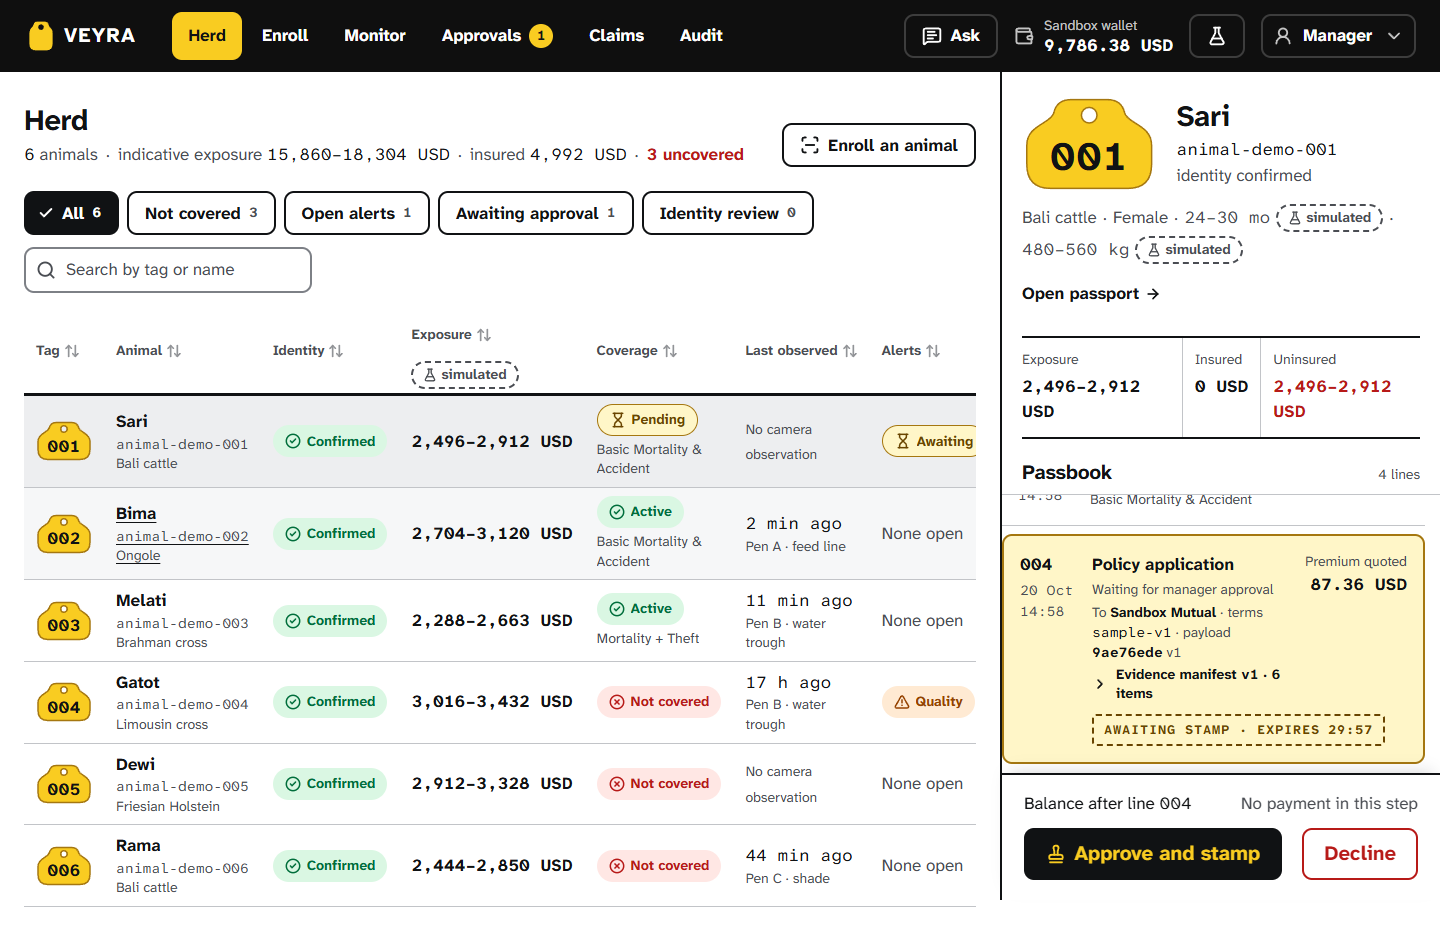
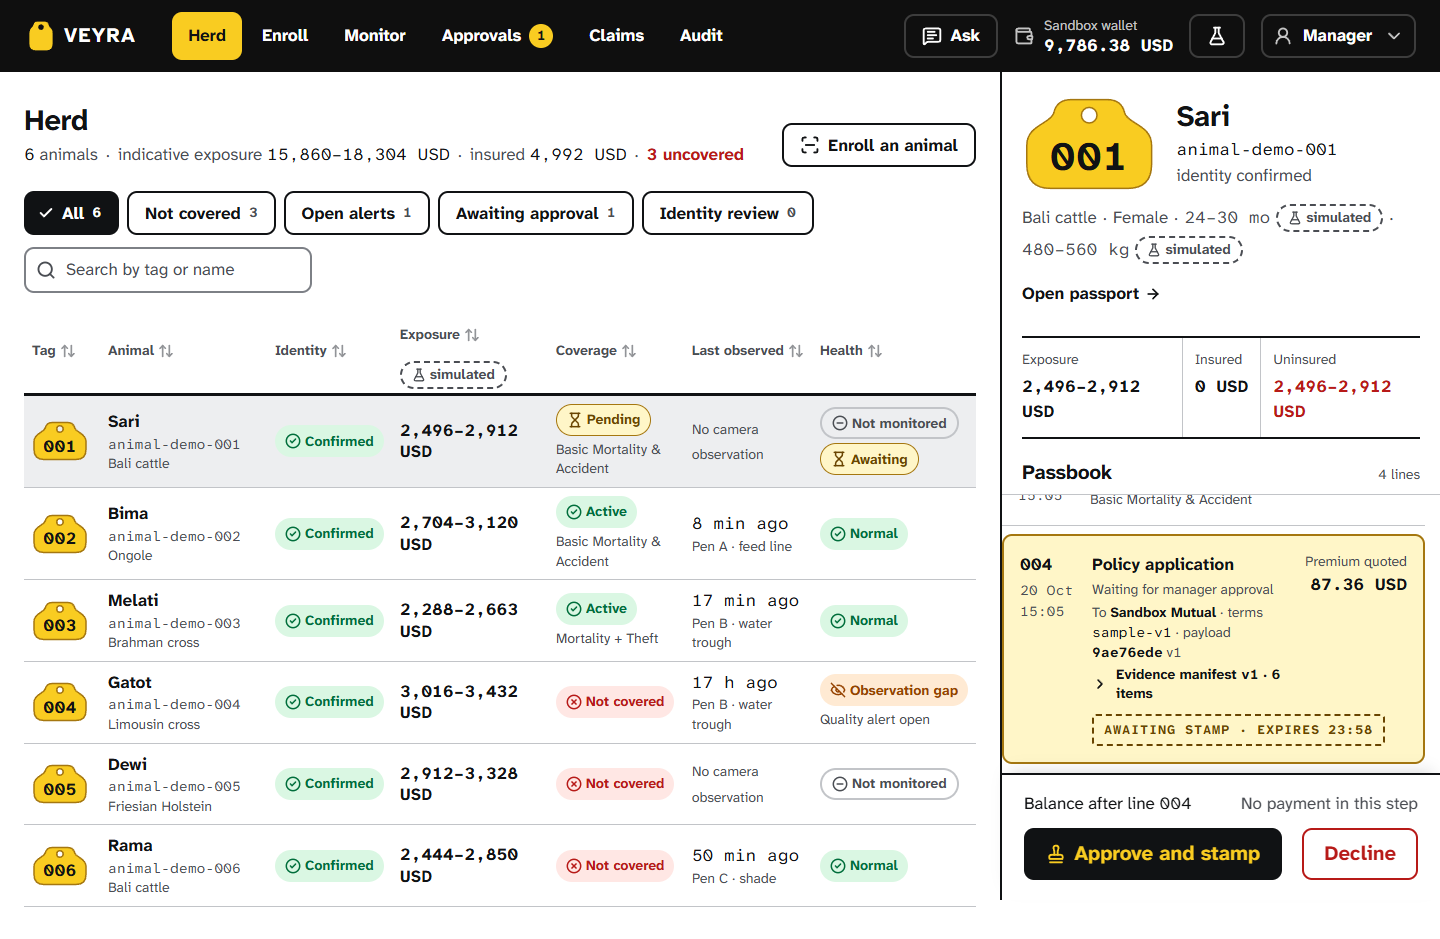
fix(web): fit the herd table beside the passbook at tablet width

diff --git a/apps/web/src/features/herd/HerdPage.tsx b/apps/web/src/features/herd/HerdPage.tsx
@@ -67,6 +67,29 @@ function shortAlertLabel(kind: string): string {
   return "Alert";
 }
 
+function awaitingLabel(count: number): string {
+  return count === 1 ? "Awaiting" : `${count} awaiting`;
+}
+
+/**
+ * Beside the passbook on a tablet (lg up to xl) a cell keeps to its first line so the table fits
+ * at 64px rows: the rest is visually hidden but still read, and it rides in the row's tooltip.
+ */
+const TABLET_HIDDEN = "lg:max-xl:sr-only";
+
+/** The row's tooltip: what the tablet layout moves out of the cells, so a hover still finds it. */
+export function rowTitle(row: HerdItem): string {
+  const parts = [`${row.name}, ${row.breed} (${row.id})`];
+  const product = row.coverage.product_id ? productName(row.coverage.product_id) : null;
+  if (product) parts.push(`Cover: ${product}`);
+  parts.push(`Health: ${row.health.reason}`);
+  if (row.alerts.open_count > 0) {
+    parts.push(`${row.alerts.kinds.length > 0 ? row.alerts.kinds.map(shortAlertLabel).join(", ") : "Alert"} alert open`);
+  }
+  if (row.awaiting_approval_count > 0) parts.push(`${awaitingLabel(row.awaiting_approval_count)} approval`);
+  return parts.join(" · ");
+}
+
 /** Sorts the most urgent health state last, so a descending sort puts it on top. */
 const HEALTH_ORDER: readonly HerdItem["health"]["status"][] = [
   "not_monitored",
@@ -97,7 +120,8 @@ const COLUMNS: readonly Column<HerdItem>[] = [
         <span className="flex flex-col text-sm font-regular text-muted">
           {/* Below xl the tag's printed number carries the ID, so the row keeps to 64px. */}
           <Mono className="hidden whitespace-nowrap xl:inline">{row.id}</Mono>
-          <span>{row.breed}</span>
+          {/* Beside the passbook the breed steps out of sight (row tooltip, passbook, passport) but is still read. */}
+          <span className={TABLET_HIDDEN}>{row.breed}</span>
         </span>
       </span>
     ),
@@ -125,7 +149,7 @@ const COLUMNS: readonly Column<HerdItem>[] = [
       <span className="flex flex-col items-start gap-1">
         <StatusPill {...coveragePill(row.coverage.status)} />
         {row.coverage.product_id && (
-          <span className="max-w-28 truncate text-sm text-muted max-md:max-w-none max-md:whitespace-normal xl:max-w-none xl:whitespace-normal" title={productName(row.coverage.product_id) ?? undefined}>
+          <span className={`text-sm text-muted ${TABLET_HIDDEN}`}>
             {productName(row.coverage.product_id)}
           </span>
         )}
@@ -150,18 +174,22 @@ const COLUMNS: readonly Column<HerdItem>[] = [
   {
     id: "health",
     header: "Health",
-    width: "172px",
+    width: "152px",
     sortValue: (row) => HEALTH_ORDER.indexOf(row.health.status) * 100 + row.awaiting_approval_count,
     cell: (row) => (
-      <span className="flex flex-col items-start gap-1" title={row.health.reason}>
+      <span className="flex flex-col items-start gap-1">
         <StatusPill {...healthPill(row.health.status)} />
+        {/* Beside the passbook the cell keeps to its pill; the alert and the waiting line stay read and
+            show in the row tooltip, and the passbook beside the table prints the waiting line itself. */}
         {row.alerts.open_count > 0 && (
-          <span className="text-sm text-muted">
+          <span className={`text-sm text-muted ${TABLET_HIDDEN}`}>
             {row.alerts.kinds.length > 0 ? row.alerts.kinds.map(shortAlertLabel).join(", ") : "Alert"} alert open
           </span>
         )}
         {row.awaiting_approval_count > 0 && (
-          <StatusPill tone="awaiting" label={row.awaiting_approval_count === 1 ? "Awaiting" : `${row.awaiting_approval_count} awaiting`} />
+          <span className={TABLET_HIDDEN}>
+            <StatusPill tone="awaiting" label={awaitingLabel(row.awaiting_approval_count)} />
+          </span>
         )}
       </span>
     ),
@@ -191,7 +219,7 @@ function ExposureCell({ row, columnSource }: { row: HerdItem; columnSource: Sour
         low={row.valuation.value_low_minor}
         high={row.valuation.value_high_minor}
         currency={row.valuation.currency}
-        className="font-bold whitespace-nowrap"
+        className="font-bold leading-tight"
       />
       {/* A row whose source differs from the column's carries its own chip; stacked rows (no header) always do. */}
       {source && <Provenance source={source} className={differs ? undefined : "dt-stacked-only"} />}
@@ -358,6 +386,7 @@ export function HerdPage() {
           rows={rows}
           rowKey={(row) => row.id}
           rowHref={(row) => hrefFor(row.id)}
+          rowTitle={rowTitle}
           selectedKey={wide ? panelAnimal : selectedParam}
           loading={herd.isPending}
           loadingRows={6}

diff --git a/apps/web/src/styles/components.css b/apps/web/src/styles/components.css
@@ -327,6 +327,33 @@
   color: var(--ink);
 }
 
+/* A table that drops columns to fit sits beside a panel on a tablet: between its stacking point and
+   1024px of container its cells pad 8px a side, so the columns fit without a horizontal scroll. */
+@container (min-width: 34rem) and (max-width: 63.9375rem) {
+  .dt-wrap[data-stack="narrow"] :is(.dt td, .dt th[scope="col"]) {
+    padding-inline: var(--space-2);
+  }
+  .dt-wrap[data-stack="narrow"] .dt td .rounded-pill {
+    gap: var(--space-1);
+    padding-inline: 0.625rem;
+  }
+}
+/* Beside the 440px passbook a two-word status ("Observation gap", "Not covered") may take two lines
+   inside its pill rather than be cut: every word stays visible and the row still keeps to 64px. */
+@container (min-width: 34rem) and (max-width: 39.9375rem) {
+  .dt-wrap[data-stack="narrow"] .dt td .rounded-pill {
+    height: auto;
+    min-height: 2rem;
+    padding-block: 0.125rem;
+    line-height: 1.2;
+    white-space: normal;
+  }
+  .dt-wrap[data-stack="narrow"] .dt td .rounded-pill > .truncate {
+    overflow: visible;
+    white-space: normal;
+  }
+}
+
 /* Stacked rows: below 720px of container, or below 544px for a table that drops columns to fit. */
 .dt-stacked-only {
   display: none;

diff --git a/apps/web/src/components/DataTable.tsx b/apps/web/src/components/DataTable.tsx
@@ -37,6 +37,8 @@ export interface DataTableProps<T> {
   rows: readonly T[];
   rowKey: (row: T) => string;
   rowHref?: (row: T) => string;
+  /** Tooltip for the row link (which covers the whole row), such as facts a narrow layout moves out of its cells. */
+  rowTitle?: (row: T) => string;
   selectedKey?: string | null;
   /** Controlled sort; omit for the table to sort itself starting from `defaultSort`. */
   sort?: SortState | null;
@@ -72,6 +74,7 @@ export function DataTable<T>({
   rows,
   rowKey,
   rowHref,
+  rowTitle,
   selectedKey,
   sort: controlledSort,
   onSortChange,
@@ -150,7 +153,7 @@ export function DataTable<T>({
                 data-lead={column.lead ? "" : undefined}
               >
                 {column.primary && href ? (
-                  <Link to={href} className="dt-row-link" aria-current={selected ? "true" : undefined}>
+                  <Link to={href} className="dt-row-link" title={rowTitle?.(row)} aria-current={selected ? "true" : undefined}>
                     {content}
                   </Link>
                 ) : (
